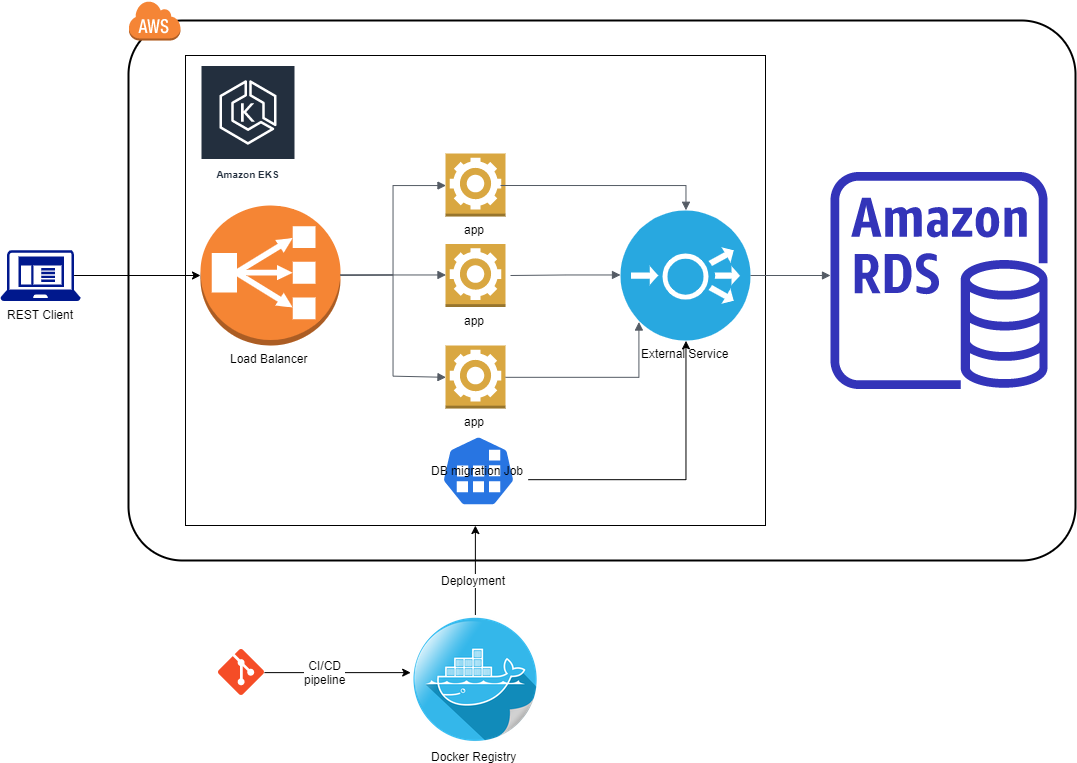
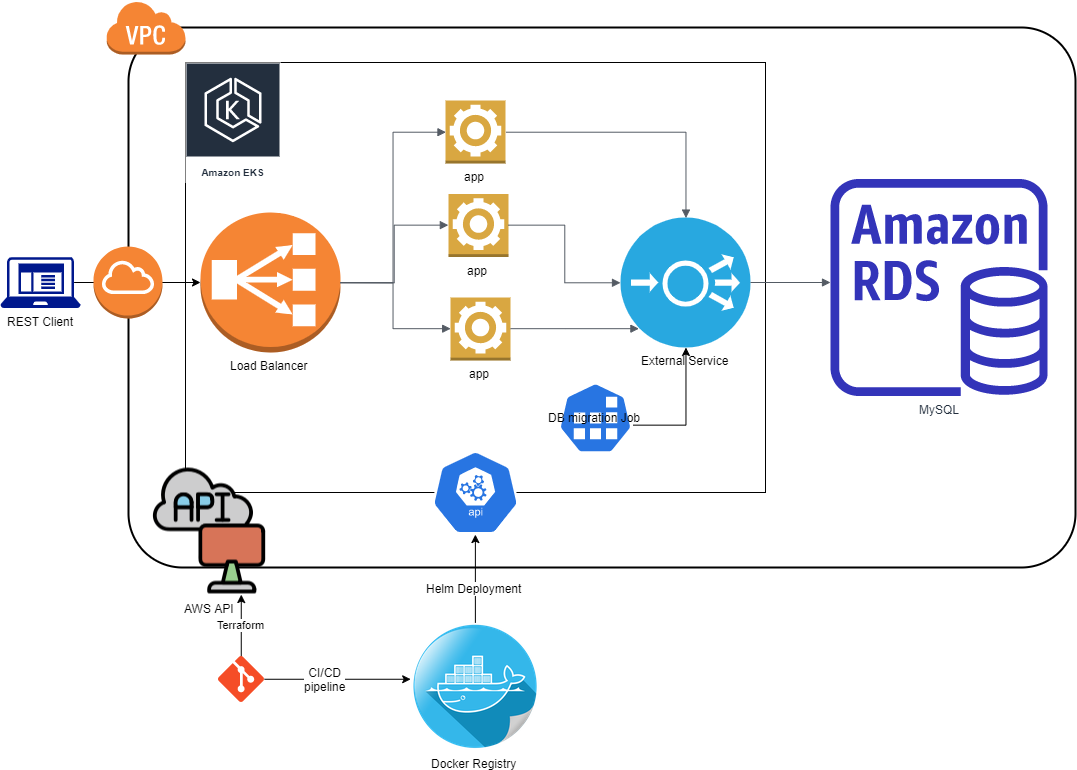
readme and new png

diff --git a/README.md b/README.md
@@ -1,0 +1,48 @@
+# Revolut Challenge
+
+## Components:
+
+- Spring boot Application (maven app with tests)
+- ./testdata.sh - curl commands examples for manual testing
+- ./Dockerfile - application build image 
+- ./deployment/terraform - scripts for creating AWS infrastructure
+- ./deployment/app - Helm chart fro k8s deployment
+
+## Prerequisites
+
+- JDK 1.8
+- Maven
+- Docker engine
+- terraform
+- kubectl
+- helm 3 
+- aws cli (aws-iam-authenticator)
+
+## Architecture 
+
+![Architecture](revolut.png)
+
+## Build and deploy pipeline
+
+    mvn -B install
+    docker build . --file Dockerfile --tag androidleha/revolut:latest
+    docker push androidleha/revolut:latest
+    cd ./deployment/terraform
+    terraform apply -var 'access_key=aws_access_key' -var 'secret_key=aws_secret_key'
+    terraform output kubeconfig > ~/.kube/config
+    terraform output values ../local.yaml
+    cd ../
+    helm install revolut ./app -f local.yaml
+    helm test revolut
+
+Notice: GitHub Action pipeline is covering only build app and deploy docker image to registry
+
+## Possible enhancements
+
+- Generate database credentials and put in k8s secrets
+- Network security enhancements: close DB from external access, configure firewalls and etc.
+- Scaling of EKS
+- More helm tests (after deployment) and rollbacks
+- API tests before deployment (integration tests)
+- Complete CI/CD pipeline
+- Monitoring of spring boot health actuator
